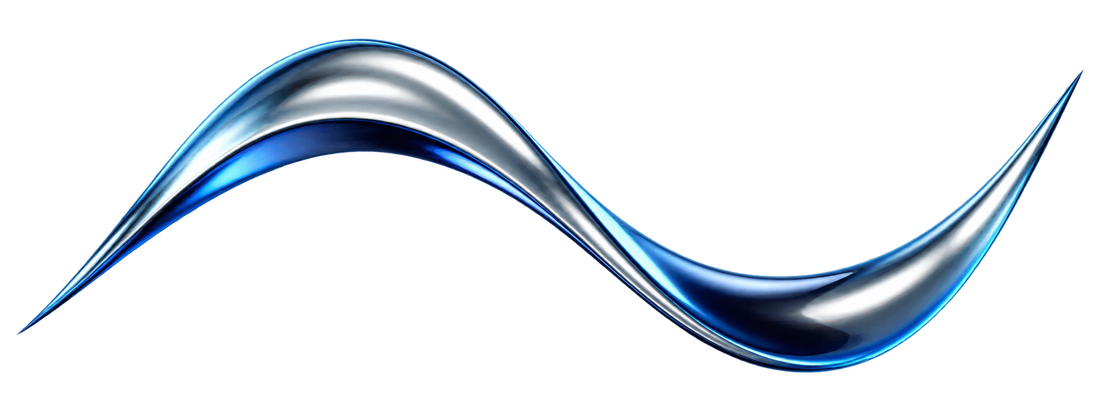
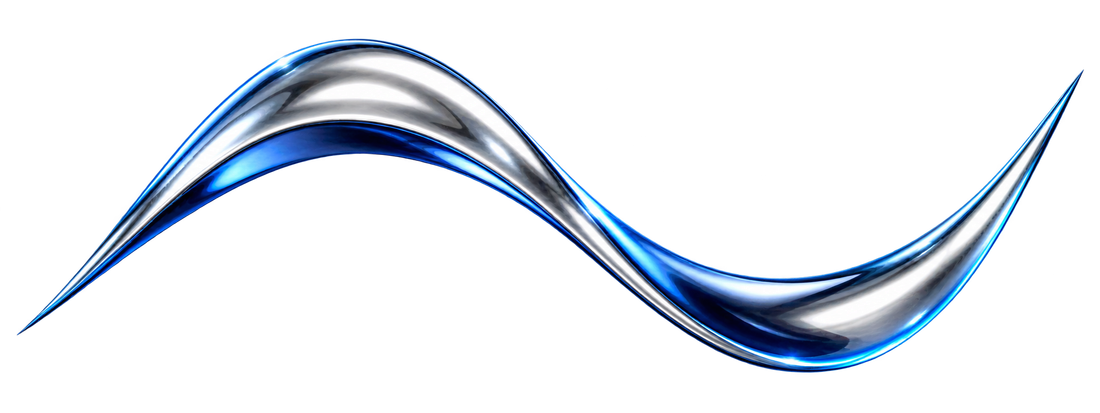
Light the chrome ribbon, tighten framing and strengthen headline hierarchy

Changed region(s): [[0.0309, 0.0872, 0.9891, 0.9007]]

diff --git a/app/styles/cinematic.css b/app/styles/cinematic.css
@@ -597,3 +597,91 @@
     animation: none !important;
   }
 }
+/* Keep the light behind the sculpture and preserve contrast below it. */
+.chrome-site main::before {
+  height: 1100px;
+  background:
+    linear-gradient(180deg, #03102200 20%, #040f2255 50%, #050d18 95%),
+    url('/brand/blue-atmosphere.webp') center top / cover no-repeat;
+}
+.signal-field {
+  mask-image:
+    linear-gradient(#000 70%, transparent),
+    radial-gradient(ellipse 420px 170px at 20% 27%, transparent 40%, #000 100%);
+  mask-composite: intersect;
+}
+.ai-motion {
+  overflow: clip;
+}
+.assistant-panel::before {
+  inset: 0;
+}
+@media (max-width: 680px) {
+  .chrome-site main::before {
+    height: 1150px;
+    background:
+      linear-gradient(180deg, #03102200 6%, #06162c65 24%, #051326e8 49%, #050d18 86%),
+      url('/brand/blue-atmosphere.webp') 64% top / auto 800px no-repeat;
+    opacity: 1;
+  }
+  .signal-field {
+    mask-image:
+      linear-gradient(#000 70%, transparent),
+      radial-gradient(ellipse 230px 150px at 50% 34%, transparent 30%, #000 100%);
+  }
+}
+/* Tighter framing and focused light give the chrome a place in the scene. */
+.chrome-site .home-hero-grid {
+  padding: 14px 0 20px;
+  min-height: 420px;
+}
+.chrome-site .home-hero-copy {
+  padding: 12px 0;
+}
+.chrome-site .chrome-hero-art {
+  height: 380px;
+}
+.chrome-site .chrome-hero-art .ribbon-halo {
+  inset: 0 -4%;
+  background:
+    radial-gradient(ellipse at 42% 42%, #d0f1ff42, transparent 44%),
+    radial-gradient(ellipse at 65% 53%, #4dbaff59, transparent 68%);
+}
+.chrome-site .chrome-hero-art .ribbon-ground {
+  inset: 74% 17% 4%;
+  background: radial-gradient(ellipse, #a8dfff3d, #409bea1c 35%, transparent 70%);
+}
+@media (max-width: 680px) {
+  .chrome-site .home-hero-grid {
+    padding: 0;
+    min-height: 0;
+  }
+  .chrome-site .home-hero-copy {
+    padding: 0;
+  }
+  .chrome-site .chrome-hero-art {
+    height: 200px;
+  }
+}
+/* Bold establishes the hierarchy; supporting copy stays light and compact. */
+.chrome-site .home-hero-copy h1 {
+  font-weight: 650;
+  letter-spacing: -0.055em;
+}
+.chrome-site h2 {
+  font-weight: 620;
+}
+.chrome-site .chrome-intents strong {
+  font-weight: 650;
+}
+.chrome-site .button.primary,
+.studio-shell .process-button,
+.studio-shell .assistant-panel .suggestion-chips strong {
+  font-weight: 650;
+}
+.chrome-site .ns-nav nav {
+  font-weight: 500;
+}
+.assistant-embedded .assistant-panel h1 {
+  font-weight: 620;
+}

diff --git a/app/apps/page.tsx b/app/apps/page.tsx
@@ -15,12 +15,12 @@ function download(value: string | undefined) {
     return null;
   }
 }
-const releaseTag = 'desktop-v0.2.1';
+const releaseTag = 'desktop-v0.2.2';
 const releaseBase = `https://github.com/victorbarrosoc-hub/nossom/releases/download/${releaseTag}/`;
 const installerNames = {
-  macArm64: 'NOSSOM-0.2.1-mac-arm64.dmg',
-  macX64: 'NOSSOM-0.2.1-mac-x64.dmg',
-  windows: 'NOSSOM-0.2.1-win-x64.exe',
+  macArm64: 'NOSSOM-0.2.2-mac-arm64.dmg',
+  macX64: 'NOSSOM-0.2.2-mac-x64.dmg',
+  windows: 'NOSSOM-0.2.2-win-x64.exe',
 };
 // These versioned installer assets were built by Actions and anonymously
 // verified before enabling the links. Environment URLs override the previews.
@@ -78,7 +78,7 @@ export default function Apps() {
                   <Download size={17} />
                   Baixar para {build.title}
                 </a>
-                {build.preview && <small>Versão de teste · 0.1.1</small>}
+                {build.preview && <small>Versão de teste · 0.2.2</small>}
               </>
             ) : (
               <>
@@ -113,7 +113,7 @@ export default function Apps() {
           </p>
           <p>
             Se você baixou a versão 0.1.0 e viu “aplicativo danificado”, substitua o aplicativo pela
-            versão 0.1.1 disponível acima. Seus projetos não precisam ser apagados.
+            versão 0.2.2 disponível acima. Seus projetos não precisam ser apagados.
           </p>
           <p>
             Se a prévia continuar bloqueada, confirme que o arquivo veio desta página e que o NOSSOM

diff --git a/tests/e2e/studio.spec.ts b/tests/e2e/studio.spec.ts
@@ -312,6 +312,6 @@ test('studio themes persist, responsive layouts fit and reduced motion pauses de
       .evaluate((el) => getComputedStyle(el).animationName),
   ).toBe('none');
   expect(await page.locator('body').evaluate((el) => getComputedStyle(el).backgroundColor)).toBe(
-    'rgb(8, 12, 16)',
+    'rgb(8, 15, 27)',
   );
 });
